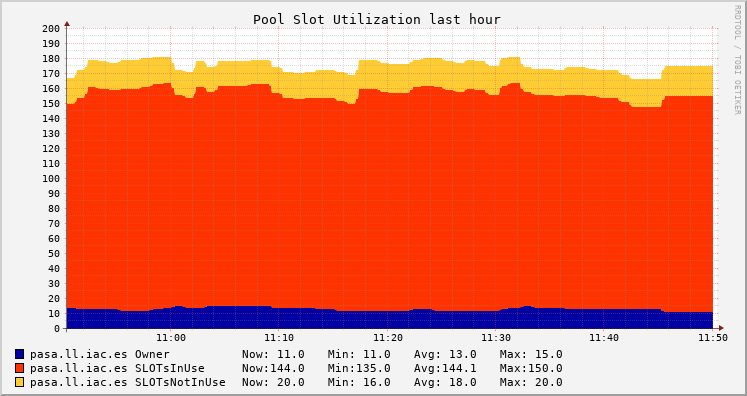
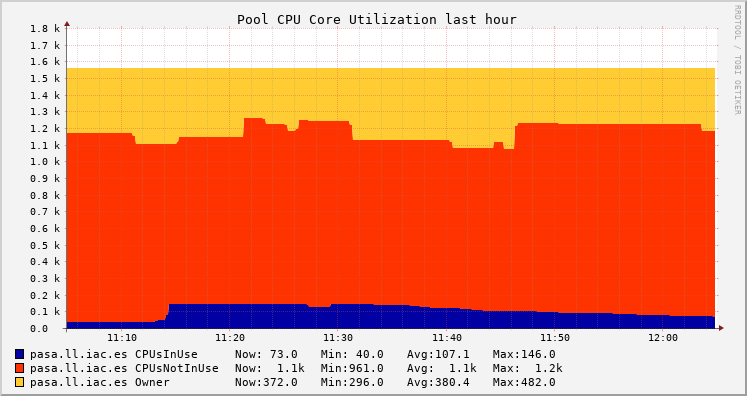
Make documentation point to the CPU_usage view (but also keep the SLOT_usage view)

diff --git a/docs/index.rst b/docs/index.rst
@@ -70,23 +70,25 @@ of actual available cores could be around 600 during office hours and around 900
 at nights and weekends.
 
 You can see real-time **HTCondor@IAC statistics** (global and per user) `here
-<https://pasa.ll.iac.es/ganglia/?r=week&cs=&ce=&m=load_one&tab=v&vn=pool_usage&hide-hf=false>`__.
+<https://pasa.ll.iac.es/ganglia/?r=week&cs=&ce=&m=load_one&tab=v&vn=CPU_usage&hide-hf=false>`__.
 The figure below is an example showing the global usage where *Owner* represents
-*slots* that are being used outside of HTCondor. The remaining *slots* are
+*cores* that are being used outside of HTCondor. The remaining *cores* are
 available to HTCondor, but if there are no eligible jobs to run, those slots
-will be in *SLOTsNotInUse* state. Those *slots* that are actually being used by
-HTCondor are those in the *SLOTsInUse* state.
+will be in *CPUsNotInUse* state. Those *cores* that are actually being used by
+HTCondor are those in the *CPUsInUse* state.
 
 .. note::
 
-   These statistics figures show *SLOT* usage, not *CORE* (or *CPU*) usage. In
+   These statistics figures show *CORE* usage, which is the most interesting
+   metric. Nevertheless, in
    HTCondor\@IAC we use `Partitionable Slots
    <https://htcondor.readthedocs.io/en/23.0/admin-manual/policy-configuration.html#dynamic-provisioning-partitionable-and-dynamic-slots>`__,
    so the number of *slots* can vary from as low as |SERVERS| (where each server
    is a *slot*) to |CORES| (where each CPU Core is a *slot*). Check section
    `Partitionable Slots`_ to get a basic understanding of what Partitionable
-   Slots are and how to use them.
-
+   Slots are and how to use them. And if you want, you can check the
+   **HTCondor@IAC statistics** (global and per user) for *slots* `here
+   <https://pasa.ll.iac.es/ganglia/?r=week&cs=&ce=&m=load_one&tab=v&vn=SLOT_usage&hide-hf=false>`__.
    
 .. figure:: images/introduction/hourly_usage.png
    :alt: hourly_usage
